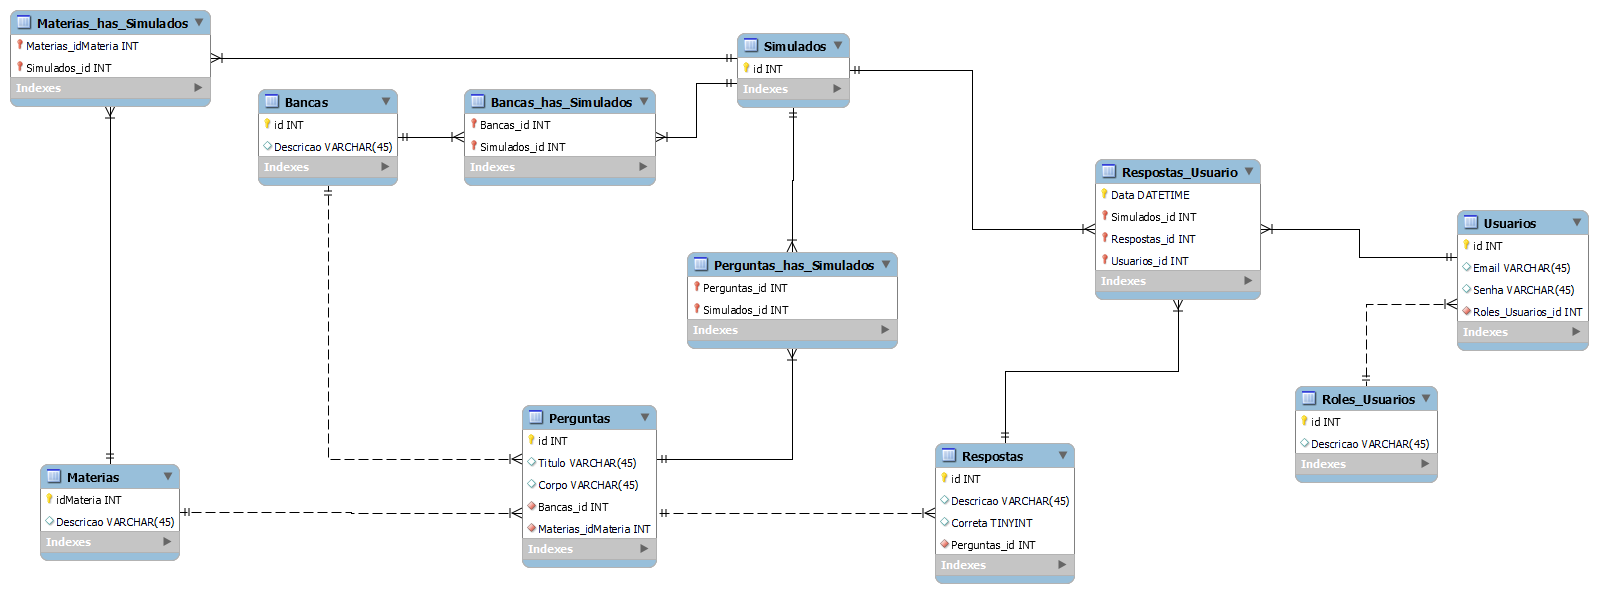
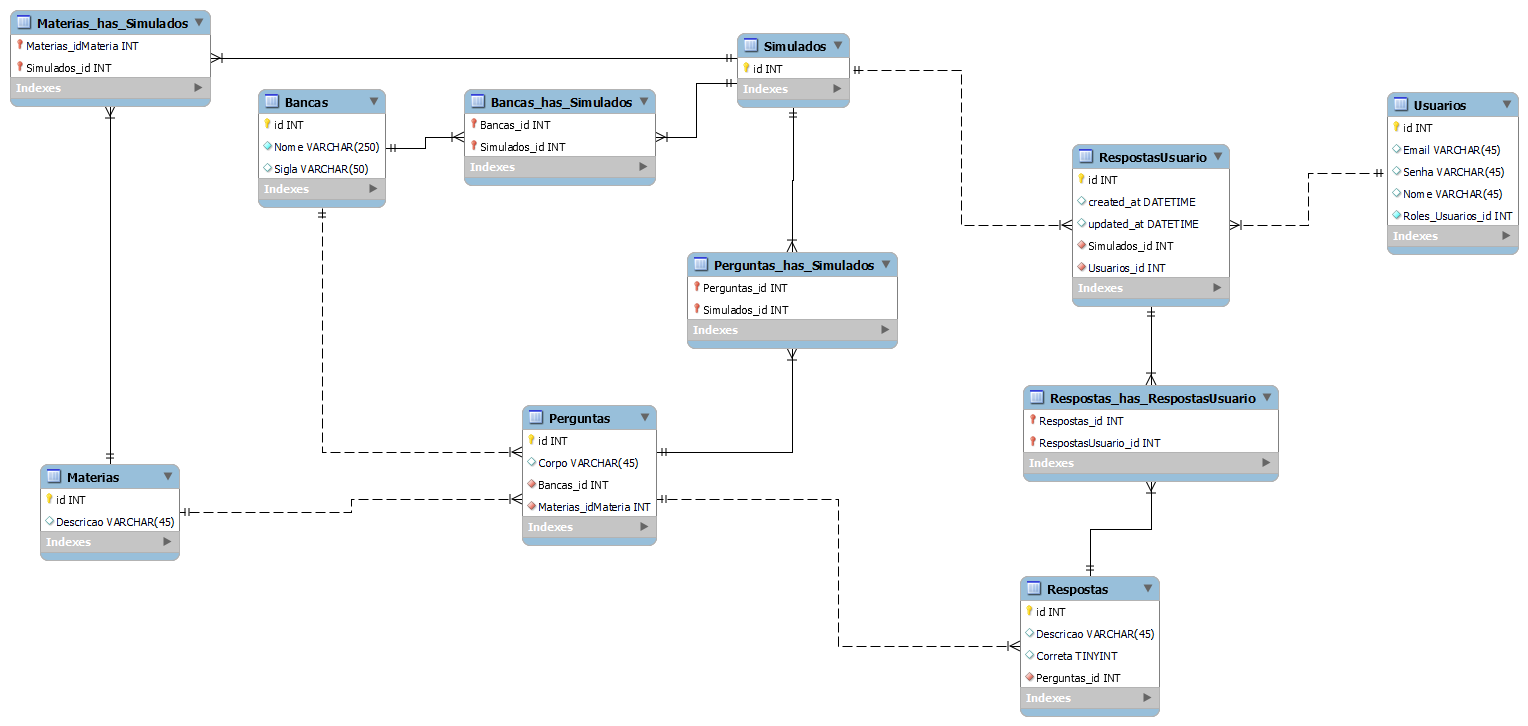
Alteracao do diagrama, testes para o respostas usuarios e nota de um usuario

diff --git a/Backend/vestibulando/src/test/java/com/vestibulando/services/RespostasUsuariosServiceTests.java b/Backend/vestibulando/src/test/java/com/vestibulando/services/RespostasUsuariosServiceTests.java
@@ -1,5 +1,7 @@
 package com.vestibulando.services;
 
+import com.vestibulando.dtos.NotaSimuladoUsuarioDTO;
+import com.vestibulando.dtos.RankingSimuladoDTO;
 import com.vestibulando.entities.Pergunta;
 import com.vestibulando.entities.RespostasUsuarios;
 import com.vestibulando.entities.Simulado;
@@ -53,6 +55,12 @@ public class RespostasUsuariosServiceTests {
 
         Mockito.when(respostasUsuariosRepository.findBySimulado(Mockito.any(Simulado.class))).thenReturn(respostasUsuariosList);
 
+        Mockito.when(respostasUsuariosRepository.getRankingSimulado(Mockito.any(Long.class))).thenReturn(new ArrayList<RankingSimuladoDTO>());
+
+        Mockito.when(respostasUsuariosRepository.getNotasSimuladosUsuario(Mockito.any(Long.class))).thenReturn(new ArrayList<NotaSimuladoUsuarioDTO>());
+        Mockito.when(respostasUsuariosRepository.getNotaSimuladoUsuario(idExistente,idExistente)).thenReturn(Optional.of(new NotaSimuladoUsuarioDTO()));
+        Mockito.when(respostasUsuariosRepository.getNotaSimuladoUsuario(idInexistente,idInexistente)).thenReturn(Optional.empty());
+
         Mockito.when(respostasUsuariosRepository.findById(idExistente)).thenReturn(Optional.of(respostasUsuarios));
 
         Mockito.when(respostasUsuariosRepository.findById(idInexistente)).thenReturn(Optional.empty());
@@ -74,10 +82,35 @@ public class RespostasUsuariosServiceTests {
     }
 
     @Test
+    public void RetornaNotaSimuladoUsuarioAoConsultar(){
+        NotaSimuladoUsuarioDTO notaRes = respostasUsuariosService.getNotaSimuladoUsuario(idExistente,idExistente);
+        Assertions.assertNotNull(notaRes);
+        Assertions.assertInstanceOf(NotaSimuladoUsuarioDTO.class,notaRes);
+    }
+
+    @Test
     public void RetornaListaDeRespostaUsuarioAoConsultarPorSimulado(){
         List<RespostasUsuarios> resConsulta = respostasUsuariosService.listar(1L);
         Assertions.assertNotNull(resConsulta);
         Assertions.assertInstanceOf(ArrayList.class,resConsulta);
+    }
+    @Test
+    public void ConsultarRespostaUsuarioInexistenteLancaExcecao(){
+        Assertions.assertThrows(EntityNotFoundException.class,()->respostasUsuariosService.getNotaSimuladoUsuario(idInexistente,idInexistente));
+    }
+
+    @Test
+    public void RetornaListaRankingDeNotasAoConsultar(){
+        List<RankingSimuladoDTO> rankingConsulta = respostasUsuariosService.getRankingSimulado(idExistente);
+        Assertions.assertNotNull(rankingConsulta);
+        Assertions.assertInstanceOf(ArrayList.class,rankingConsulta);
+    }
+
+    @Test
+    public void RetornaListNotasSimuladoUsuarioAoConsultar(){
+        List<NotaSimuladoUsuarioDTO> notasUsuario = respostasUsuariosService.getNotasSimuladosUsuario(idExistente);
+        Assertions.assertNotNull(notasUsuario);
+        Assertions.assertInstanceOf(ArrayList.class,notasUsuario);
     }
 
     @Test

diff --git a/Backend/vestibulando/src/main/java/com/vestibulando/repositories/IRespostasUsuariosRepository.java b/Backend/vestibulando/src/main/java/com/vestibulando/repositories/IRespostasUsuariosRepository.java
@@ -1,5 +1,6 @@
 package com.vestibulando.repositories;
 
+import com.vestibulando.dtos.NotaSimuladoUsuarioDTO;
 import com.vestibulando.dtos.RankingSimuladoDTO;
 import com.vestibulando.entities.RespostasUsuarios;
 import com.vestibulando.entities.Simulado;
@@ -30,4 +31,25 @@ public interface IRespostasUsuariosRepository extends JpaRepository<RespostasUsu
     )
     List<RankingSimuladoDTO> getRankingSimulado(long idSimulado);
 
+    @Query("select new com.vestibulando.dtos.NotaSimuladoUsuarioDTO("+
+            "ru.simulado.id ,"+
+            "count(*)"+
+            ")"+
+            " from RespostasUsuarios ru " +
+            " join ru.respostas respsU "+
+            " where ru.simulado.id = ?1 and ru.usuario.id= ?2 and respsU.correta = true "+
+            " group by ru.simulado.id "
+    )
+    Optional<NotaSimuladoUsuarioDTO> getNotaSimuladoUsuario( long idSimulado,long idUsuario);
+
+    @Query("select new com.vestibulando.dtos.NotaSimuladoUsuarioDTO("+
+            "ru.simulado.id ,"+
+            "count(*)"+
+            ")"+
+            " from RespostasUsuarios ru " +
+            " join ru.respostas respsU "+
+            " where ru.usuario.id= ?1 and respsU.correta = true "+
+            " group by ru.simulado.id "
+    )
+    List<NotaSimuladoUsuarioDTO> getNotasSimuladosUsuario( long idUsuario);
 }

diff --git a/Backend/vestibulando/src/main/java/com/vestibulando/controllers/RespostasUsuariosController.java b/Backend/vestibulando/src/main/java/com/vestibulando/controllers/RespostasUsuariosController.java
@@ -1,5 +1,6 @@
 package com.vestibulando.controllers;
 
+import com.vestibulando.dtos.NotaSimuladoUsuarioDTO;
 import com.vestibulando.dtos.RankingSimuladoDTO;
 import com.vestibulando.entities.RespostasUsuarios;
 import com.vestibulando.services.RespostasUsuariosService;
@@ -32,6 +33,15 @@ public class RespostasUsuariosController {
     @GetMapping("/rankingSimulado/{idsimulado}")
     public ResponseEntity<List<RankingSimuladoDTO>> listarRankingSimulado(@PathVariable("idsimulado") long idSimulado){
         return ResponseEntity.status(HttpStatus.OK).body(respostasUsuariosService.getRankingSimulado(idSimulado));
+    }
+    @GetMapping("/notaSimuladoUsuario/{idusuario}/{idsimulado}")
+    public ResponseEntity<NotaSimuladoUsuarioDTO> notaSimuladoUsuario(@PathVariable("idsimulado") long idSimulado, @PathVariable("idusuario") long idUsuario){
+        return ResponseEntity.status(HttpStatus.OK).body(respostasUsuariosService.getNotaSimuladoUsuario(idUsuario,idSimulado));
+    }
+
+    @GetMapping("/notasSimuladosUsuario/{idusuario}")
+    public ResponseEntity<List<NotaSimuladoUsuarioDTO>> notasSimuladosUsuario(@PathVariable("idusuario") long idUsuario){
+        return ResponseEntity.status(HttpStatus.OK).body(respostasUsuariosService.getNotasSimuladosUsuario(idUsuario));
     }
 
 

diff --git a/Backend/vestibulando/src/test/java/com/vestibulando/controllers/RespostasUsuariosControllerTests.java b/Backend/vestibulando/src/test/java/com/vestibulando/controllers/RespostasUsuariosControllerTests.java
@@ -65,6 +65,30 @@ public class RespostasUsuariosControllerTests {
     }
 
     @Test
+    public void ObterNotasSimuladosUsuarioRetornaOk() throws Exception {
+        mockMvc.perform(get("/respostasUsuarios/notasSimuladosUsuario/{id}",1L)
+                        .accept(MediaType.APPLICATION_JSON)
+                )
+                .andExpect(status().isOk());
+    }
+
+    @Test
+    public void ObterNotaSimuladoUsuarioRetornaOk() throws Exception {
+        mockMvc.perform(get("/respostasUsuarios/notaSimuladoUsuario/{idusuario}/{idsimulado}",1L,1L)
+                        .accept(MediaType.APPLICATION_JSON)
+                )
+                .andExpect(status().isOk());
+    }
+
+    @Test
+    public void ObterRankingSimuladoRetornaOk() throws Exception {
+        mockMvc.perform(get("/respostasUsuarios/rankingSimulado/{idsimulado}",1L)
+                        .accept(MediaType.APPLICATION_JSON)
+                )
+                .andExpect(status().isOk());
+    }
+
+    @Test
     public void ListarPaginadoRetornaOk() throws Exception {
         mockMvc.perform(get("/respostasUsuarios")
                         .accept(MediaType.APPLICATION_JSON)

diff --git a/Backend/vestibulando/src/main/java/com/vestibulando/services/RespostasUsuariosService.java b/Backend/vestibulando/src/main/java/com/vestibulando/services/RespostasUsuariosService.java
@@ -1,5 +1,6 @@
 package com.vestibulando.services;
 
+import com.vestibulando.dtos.NotaSimuladoUsuarioDTO;
 import com.vestibulando.dtos.RankingSimuladoDTO;
 import com.vestibulando.entities.RespostasUsuarios;
 import com.vestibulando.entities.Simulado;
@@ -51,6 +52,15 @@ public class RespostasUsuariosService {
     public List<RankingSimuladoDTO> getRankingSimulado(Long idSimulado){
         return respostasUsuariosRepository.getRankingSimulado(idSimulado) ;
     }
+
+    public NotaSimuladoUsuarioDTO getNotaSimuladoUsuario(long idUsuario,long idSimulado){
+        return respostasUsuariosRepository.getNotaSimuladoUsuario(idSimulado,idUsuario).orElseThrow(()-> new EntityNotFoundException("Não foi possível encontrar respostas para o usuário e simulados especificados!"));
+    }
+
+    public List<NotaSimuladoUsuarioDTO> getNotasSimuladosUsuario(long idUsuario){
+        return respostasUsuariosRepository.getNotasSimuladosUsuario(idUsuario);
+    }
+
 
     public void deletar(long id){
         RespostasUsuarios respUsuarios = this.obter(id);

diff --git a/Backend/vestibulando/src/main/java/com/vestibulando/dtos/NotaSimuladoUsuarioDTO.java b/Backend/vestibulando/src/main/java/com/vestibulando/dtos/NotaSimuladoUsuarioDTO.java
@@ -1,0 +1,30 @@
+package com.vestibulando.dtos;
+
+public class NotaSimuladoUsuarioDTO {
+    private long idSimulado;
+    private long nota;
+
+    public NotaSimuladoUsuarioDTO() {
+    }
+
+    public NotaSimuladoUsuarioDTO(long idSimulado, long nota) {
+        this.idSimulado = idSimulado;
+        this.nota = nota;
+    }
+
+    public long getIdSimulado() {
+        return idSimulado;
+    }
+
+    public void setIdSimulado(long idSimulado) {
+        this.idSimulado = idSimulado;
+    }
+
+    public long getNota() {
+        return nota;
+    }
+
+    public void setNota(long nota) {
+        this.nota = nota;
+    }
+}
